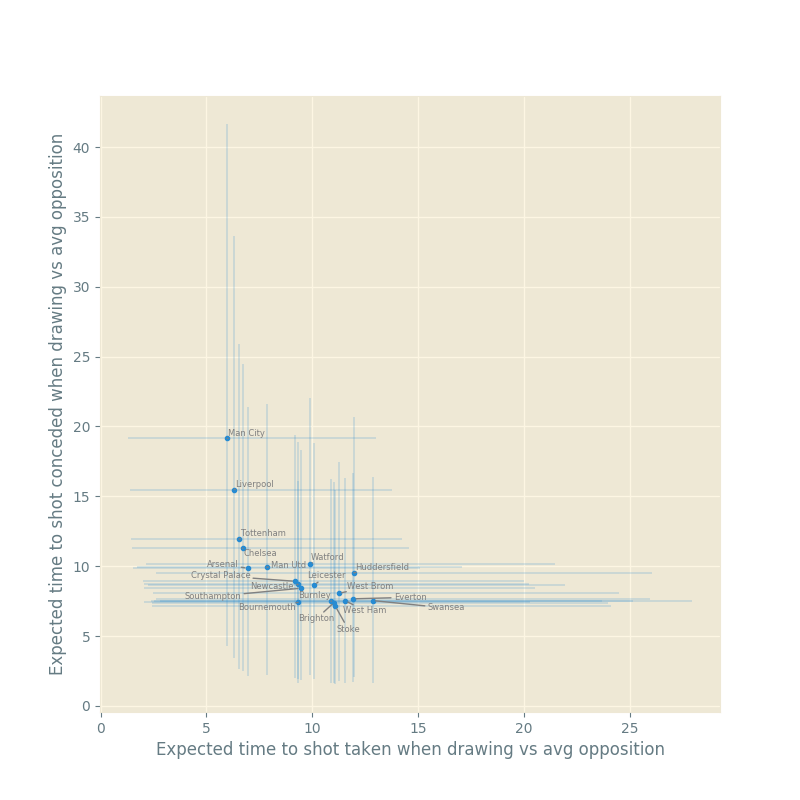
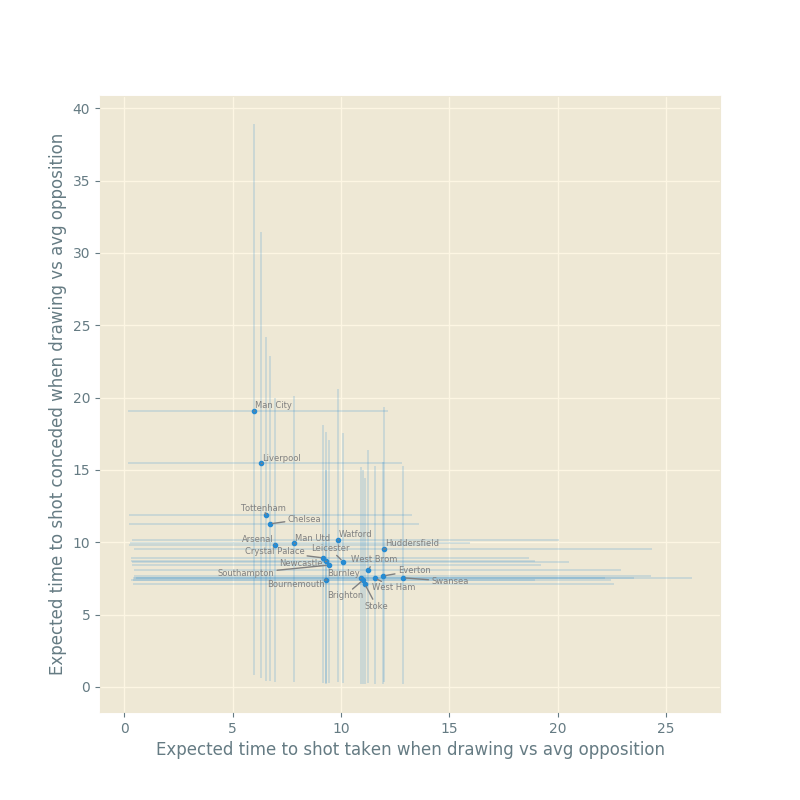
Constrain the model properly (closes #19)
For N teams and 2 parameters per team, the model
should have 2N-1 degrees of freedom, as in
Dixon-Robinson for example. This is achieved by
forcing one group of parameters to multiply to 1.

diff --git a/run.py b/run.py
@@ -82,4 +82,4 @@ def wrangle(filepath):
 
 def run():
     stan_data, team_map = wrangle("data/shots.csv")
-    return fit("shotgen.stan", stan_data, chains=7, iter=8000), team_map
+    return fit("shotgen.stan", stan_data, chains=7, iter=4000), team_map

diff --git a/README.md b/README.md
@@ -7,13 +7,29 @@ There is a dedicated wiki page with
 
 ### Execution
 Currently the model is best executed and visualised via IPython, like so:
+
 ```python
 %run run.py
 samples, team_map = run()
 graph(samples, team_map)
 ```
 which produces a scatter plot of team coefficients with 50% CIs:
+
 ![Team coefficients](doc/figures/team_scatter.png)
+
+Note that while the CIs are very wide, this is due
+to the fact that that the mean time to shot is the inverse of the shooting rate
+and thus the effect of extreme values is magnified. The underlying team 
+coefficients are in fact significantly different from each other, as illustrated
+by further running
+
+```python
+samples.plot()
+plt.show()
+```
+which yields
+
+![Samples](doc/figures/fit.png)
 
 ### Status
 The model is unfit for (any) purpose until a number of improvements are made as per
